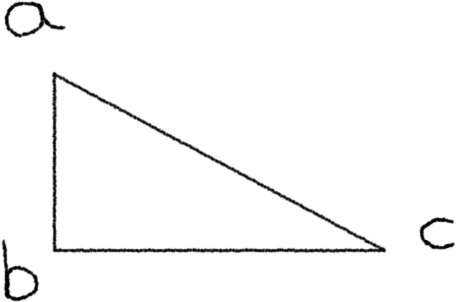
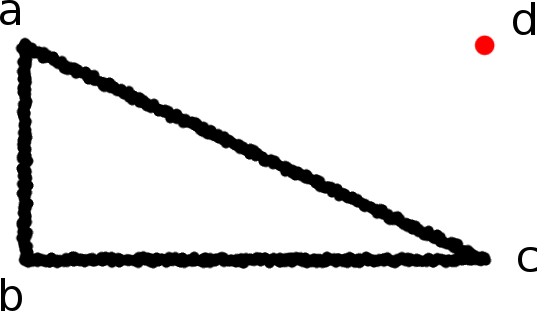
Finish Gauss' shoelace post

Changed region(s): [[0.0, 0.0, 1.0, 1.0], [0.9518, 0.0, 1.0, 0.1192], [0.8596, 0.0894, 0.9211, 0.1788]]

diff --git a/_drafts/2018-07-09-gauss-shoelace-formula.md b/_drafts/2018-07-09-gauss-shoelace-formula.md
@@ -65,18 +65,31 @@ Using Gauss' formula, area of this triangle is computed like so;
   of the vector*)
 
 Adding all of these areas together gives and dividing by two results in an area
-of $7.5$. We can verify this quite easily - $\frac{1}{2} (5 \times 3) = 7.5$.
+of $7.5$. We can verify this quite easily: $\frac{1}{2} (5 \times 3) = 7.5$.
 This is a bit over-complicated for a triangle - but this method works just as
 well on polygons with an arbitrary number of sides! *"But wait"*, I hear you
-say, *"you can't have a negative area!"*
+say, *"you can't have a negative area!"*. The answer to that question is easy -
+the quantity $(x_{n-1}y_{n}) - (x_{n}y_{n-1})$ simply describes the rectangle
+that has one particular vertex at its *top right*, and another at its *bottom
+left*.
+
+For the right-angled triangle shown above, the area given by $(x_{n-1}y_{n}) -
+(x_{n}y_{n-1})$ defines the rectangle with vertex $b$ at its lower left, and
+vertex $d$ at its upper right. Dividing this area by two gives the area of
+triangle $abc$.
+
+So what about a more complex polygon? The same procedure applies, but the key
+difference is that it gets broken up into right-angled triangles first!
+
+![A quadrilateral broken up into right-angled
+triangles](/images/complex-polygon.png)
 
 ---
 
-So now you hopefully understand the derivation of the formula and how it works.
-It's marvellously compact for (what I consider to be) such a neat piece of
-geometric reasoning. Interestingly, when implementing this in a programming
-language that supports vectorisation, it boils down to just four lines of
-code...
+So there we have it - now you have an understanding of how Gauss' shoelace
+formula works. It's marvellously compact for (what I consider to be) such a neat
+piece of geometric reasoning. When implementing this in a programming language
+that supports vectorisation, it boils down to just four lines of code...
 
 ```python
 # See https://stackoverflow.com/a/49129646/2321244
@@ -86,4 +99,5 @@ def shoelace(xs, ys):
     return np.abs(main_area + correction) / 2
 ```
 
-...and runs in mere microseconds.
+...and runs in mere microseconds. Fantastic really, considering that Gauss died
+over 150 years ago.
